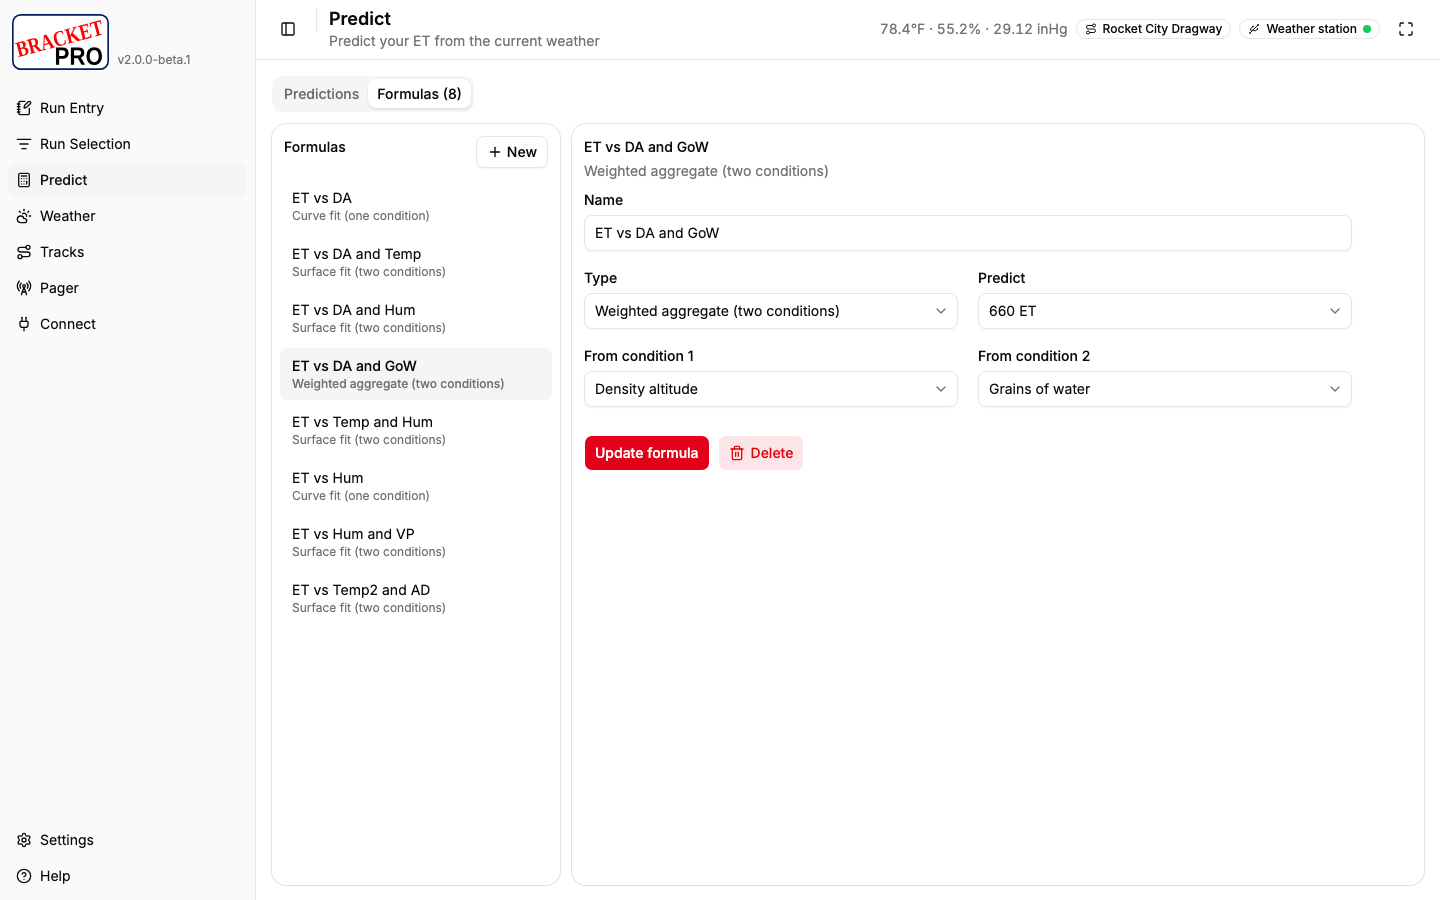
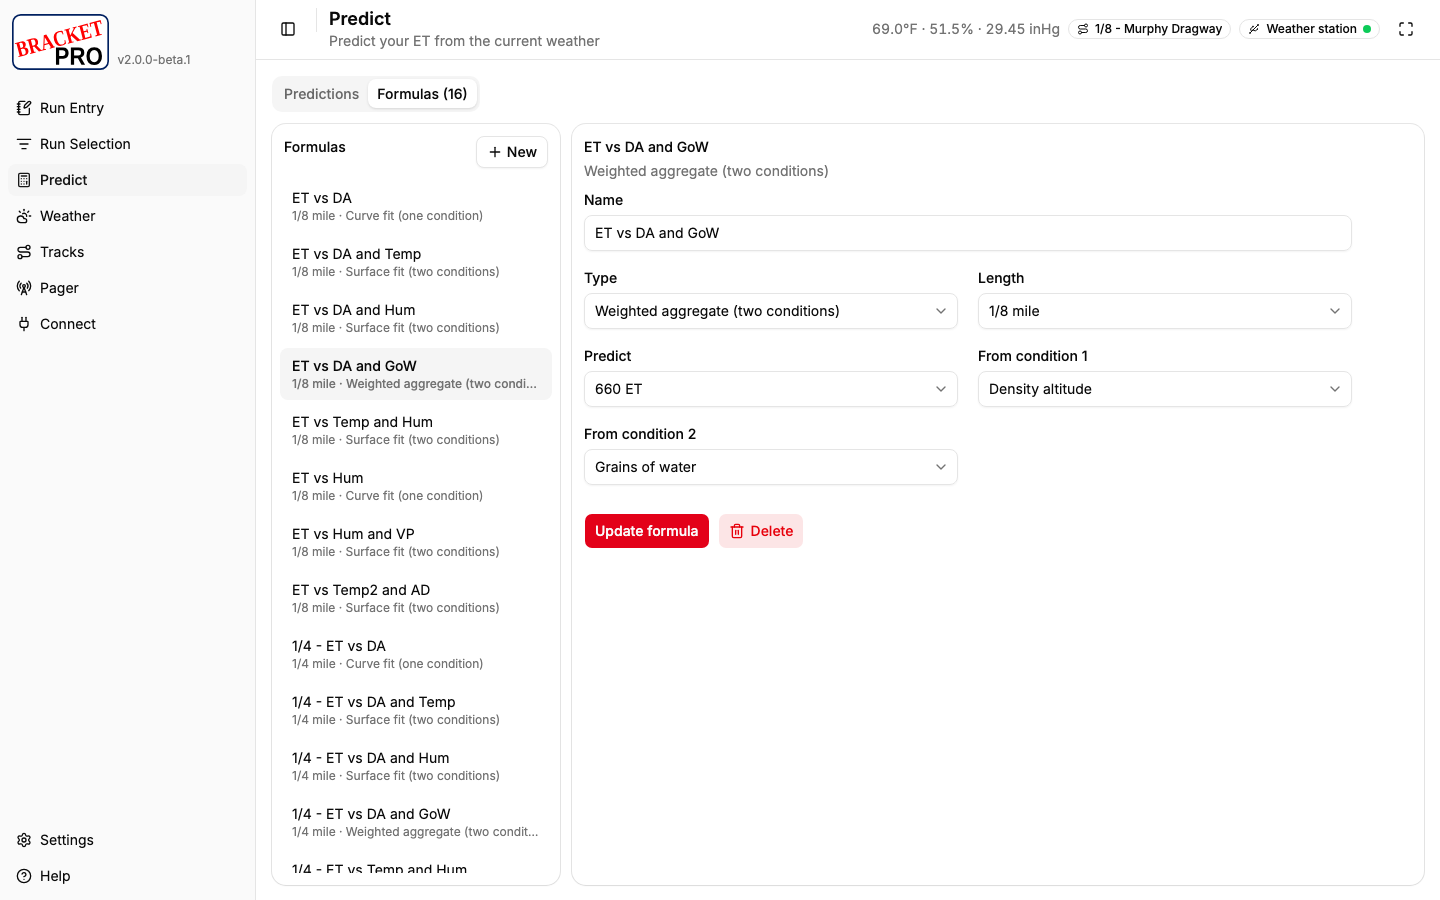
Screenshots from the invented logbook, and two for 1/4 mile
No real car, tracks or tune notes. scanner-pairing.png and scanner-flow.png are
not refreshed: their QR codes have to be covered by hand first.

diff --git a/README.md b/README.md
@@ -11,7 +11,7 @@ of the Bracket Pro repo at `site/`.
   chapter's "When the scanner doesn't connect". Update them when the manual changes.
 - The screenshots in `images/` are copies of the manual's. After `pnpm run docs:screenshots` in
   Bracket Pro, refresh them from the Bracket Pro repo's root:
-  `cp docs/manual/images/{run-entry,weather,weather-graphs,run-selection,predict,formulas,pager,scanner-card,scanner-check,scanner-photo,scanner-run-entry}.png site/images/`
+  `cp docs/manual/images/{run-entry,weather,weather-graphs,run-selection,predict,formulas,pager,scanner-card,scanner-check,scanner-photo,scanner-run-entry,quarter-run-entry,quarter-predict}.png site/images/`
 - **Not** `scanner-pairing.png` or `scanner-flow.png`: they show a real pairing QR code, and the
   pairing data is confidential. Here those codes are covered with one for a YouTube link.
   Cover the code again before replacing either.
